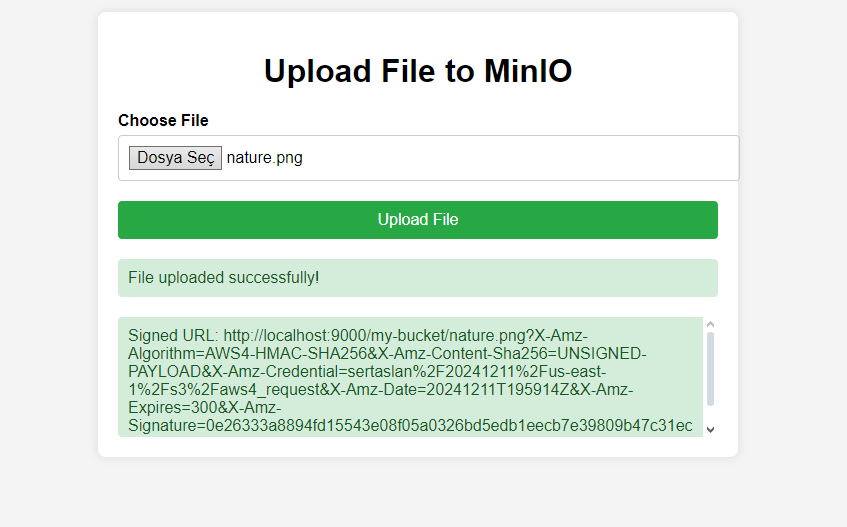
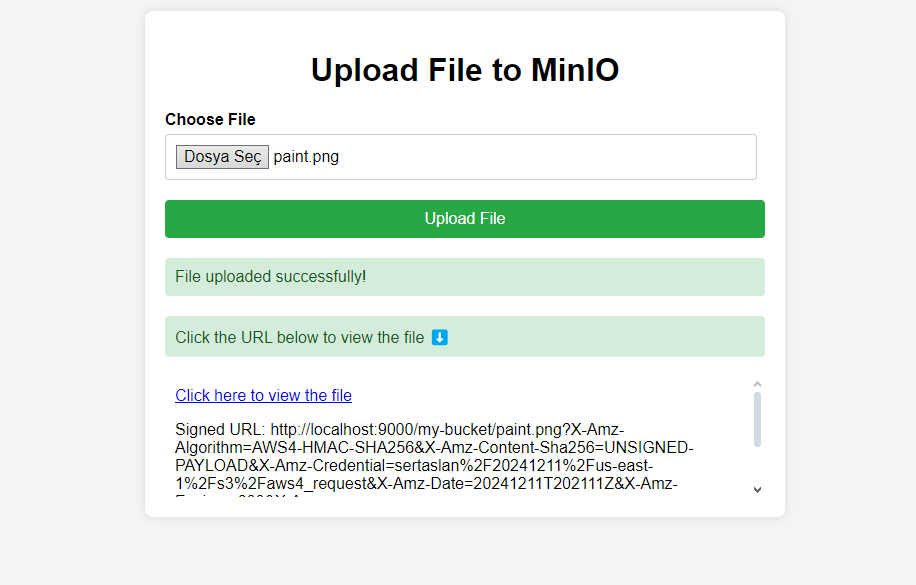
Add functionality to generate and display signed URL for viewing uploaded file

diff --git a/public/index.html b/public/index.html
@@ -31,7 +31,7 @@
         font-weight: bold;
       }
       .input-group input {
-        width: 100%;
+        width: 95%;
         padding: 10px;
         font-size: 16px;
         border: 1px solid #ccc;
@@ -83,12 +83,13 @@
         <button id="uploadFile">Upload File</button>
       </div>
       <div id="message" class="message"></div>
-
+      <p id="signerUrlTitle" class="message"></p>
       <div id="signedUrlMessage" class="message"></div>
     </div>
 
     <script>
       const messageBox = document.getElementById("message");
+      const signerUrlTitle = document.getElementById("signerUrlTitle");
       const signedUrlMessageBox = document.getElementById("signedUrlMessage");
       const uploadFileButton = document.getElementById("uploadFile");
       const fileInput = document.getElementById("file");
@@ -115,11 +116,11 @@
           const response = await fetch(
             `/signed-url?fileName=${encodeURIComponent(
               file.name
-            )}&contentType=${encodeURIComponent(file.type)}`
+            )}&contentType=${encodeURIComponent(file.type)}&action=upload`
           );
           if (!response.ok) throw new Error("Failed to generate signed URL");
 
-          const { signedUrl } = await response.json();
+          const { signedUrl, signedUrlGet } = await response.json();
           // Step 2: Upload file to MinIO/S3 using the signed URL
           const uploadResponse = await fetch(signedUrl, {
             method: "PUT",
@@ -132,7 +133,21 @@
           if (!uploadResponse.ok) throw new Error("Failed to upload file");
 
           displayMessage(messageBox, "File uploaded successfully!");
-          displayMessage(signedUrlMessageBox, `Signed URL: ${signedUrl}`);
+          displayMessage(
+            signerUrlTitle,
+            "Click the URL below to view the file ⬇"
+          );
+
+          const linkElement = document.createElement("a");
+          linkElement.href = signedUrlGet;
+          linkElement.textContent = "Click here to view the file";
+          linkElement.target = "_blank";
+          signedUrlMessageBox.innerHTML = "";
+          signedUrlMessageBox.appendChild(linkElement);
+
+          const signedUrlTextElement = document.createElement("p");
+          signedUrlTextElement.textContent = `Signed URL: ${signedUrlGet}`;
+          signedUrlMessageBox.appendChild(signedUrlTextElement);
         } catch (error) {
           displayMessage(messageBox, error.message, false);
         }

diff --git a/index.js b/index.js
@@ -1,5 +1,9 @@
 import express from "express";
-import { S3Client, PutObjectCommand } from "@aws-sdk/client-s3";
+import {
+  S3Client,
+  PutObjectCommand,
+  GetObjectCommand,
+} from "@aws-sdk/client-s3";
 import { getSignedUrl } from "@aws-sdk/s3-request-presigner";
 import cors from "cors";
 import path from "path";
@@ -17,8 +21,8 @@ const s3 = new S3Client({
   endpoint: "http://localhost:9000", // MinIO's endpoint address (MinIO in docker runs on this port)
   region: "us-east-1", // Region (this doesn't really matter, in MinA this is usually 'us-east-1')
   credentials: {
-    accessKeyId: "YOUR-ACCESS-KEY", // MinIO access key
-    secretAccessKey: "YOUR-SECRET-KEY", // MinIO secret key
+    accessKeyId: "YOUR_ACCESS_KEY", // MinIO access key
+    secretAccessKey: "YOUR_SECRET_KEY", // MinIO secret key
   },
   forcePathStyle: true, // To be MinIO compatible
 });
@@ -41,9 +45,12 @@ app.get("/signed-url", async (req, res) => {
   };
 
   try {
+    const commandGet = new GetObjectCommand(params);
+    const signedUrlGet = await getSignedUrl(s3, commandGet, { expiresIn: 300 }); // Valid for 5 minutes
+
     const command = new PutObjectCommand(params);
     const signedUrl = await getSignedUrl(s3, command, { expiresIn: 300 }); // Valid for 5 minutes
-    res.json({ signedUrl });
+    res.json({ signedUrl, signedUrlGet });
   } catch (error) {
     console.error("Error generating signed URL:", error.message);
     res.status(500).send("Failed to generate signed URL");
